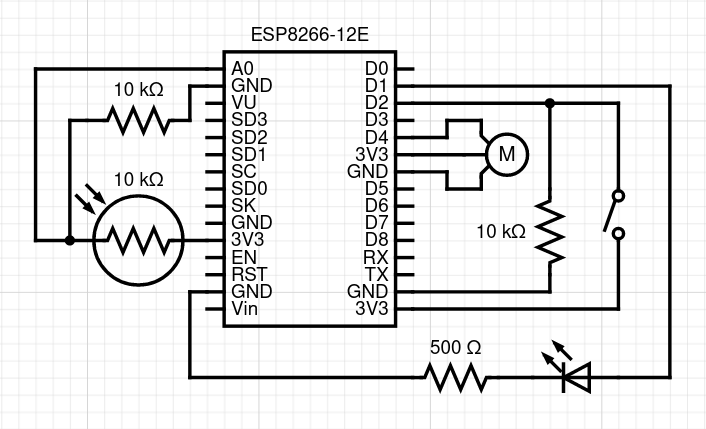
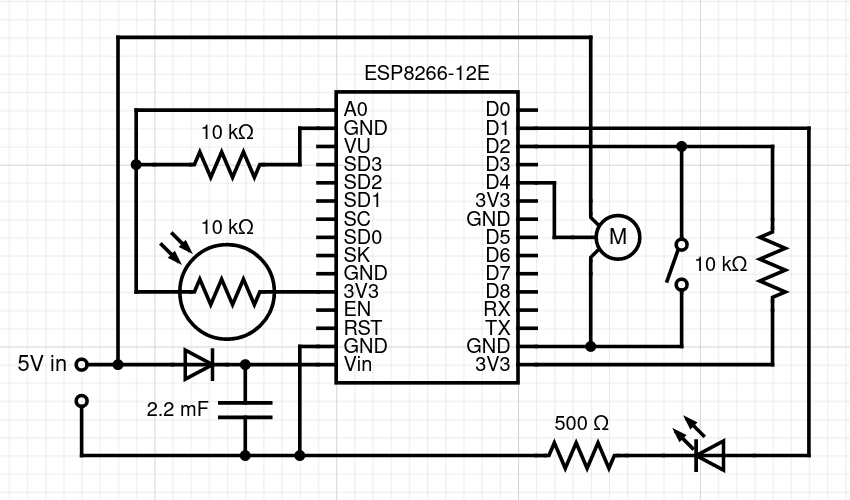
Supplementary power input

Changed region(s): [[0.0, 0.0606, 0.966, 0.9394]]

diff --git a/README.md b/README.md
@@ -9,10 +9,14 @@ Arduino-compatibile ESP8266 module's firmware for WiFi connection, photoresistor
 * 1x resistor 500 Ohm
 * 1x LED
 * 1x button switch
+* 1x capacitor 2.2 mF
+* 1x rectifier diode
 
 ### Circut
 ![circut.png](docs/circut.png) 
 
+### Description
+Unfortunatelly, ESP8266 does not provide 5V output pins, so there is external power input to circut. 5V input is required to power on microservo and can be used as input standalone (via Vin pin on ESP8266).
 ### Functionalities
 * WiFi connectivity, broadcast and simple management
 * photoresistor's resistance measurement
